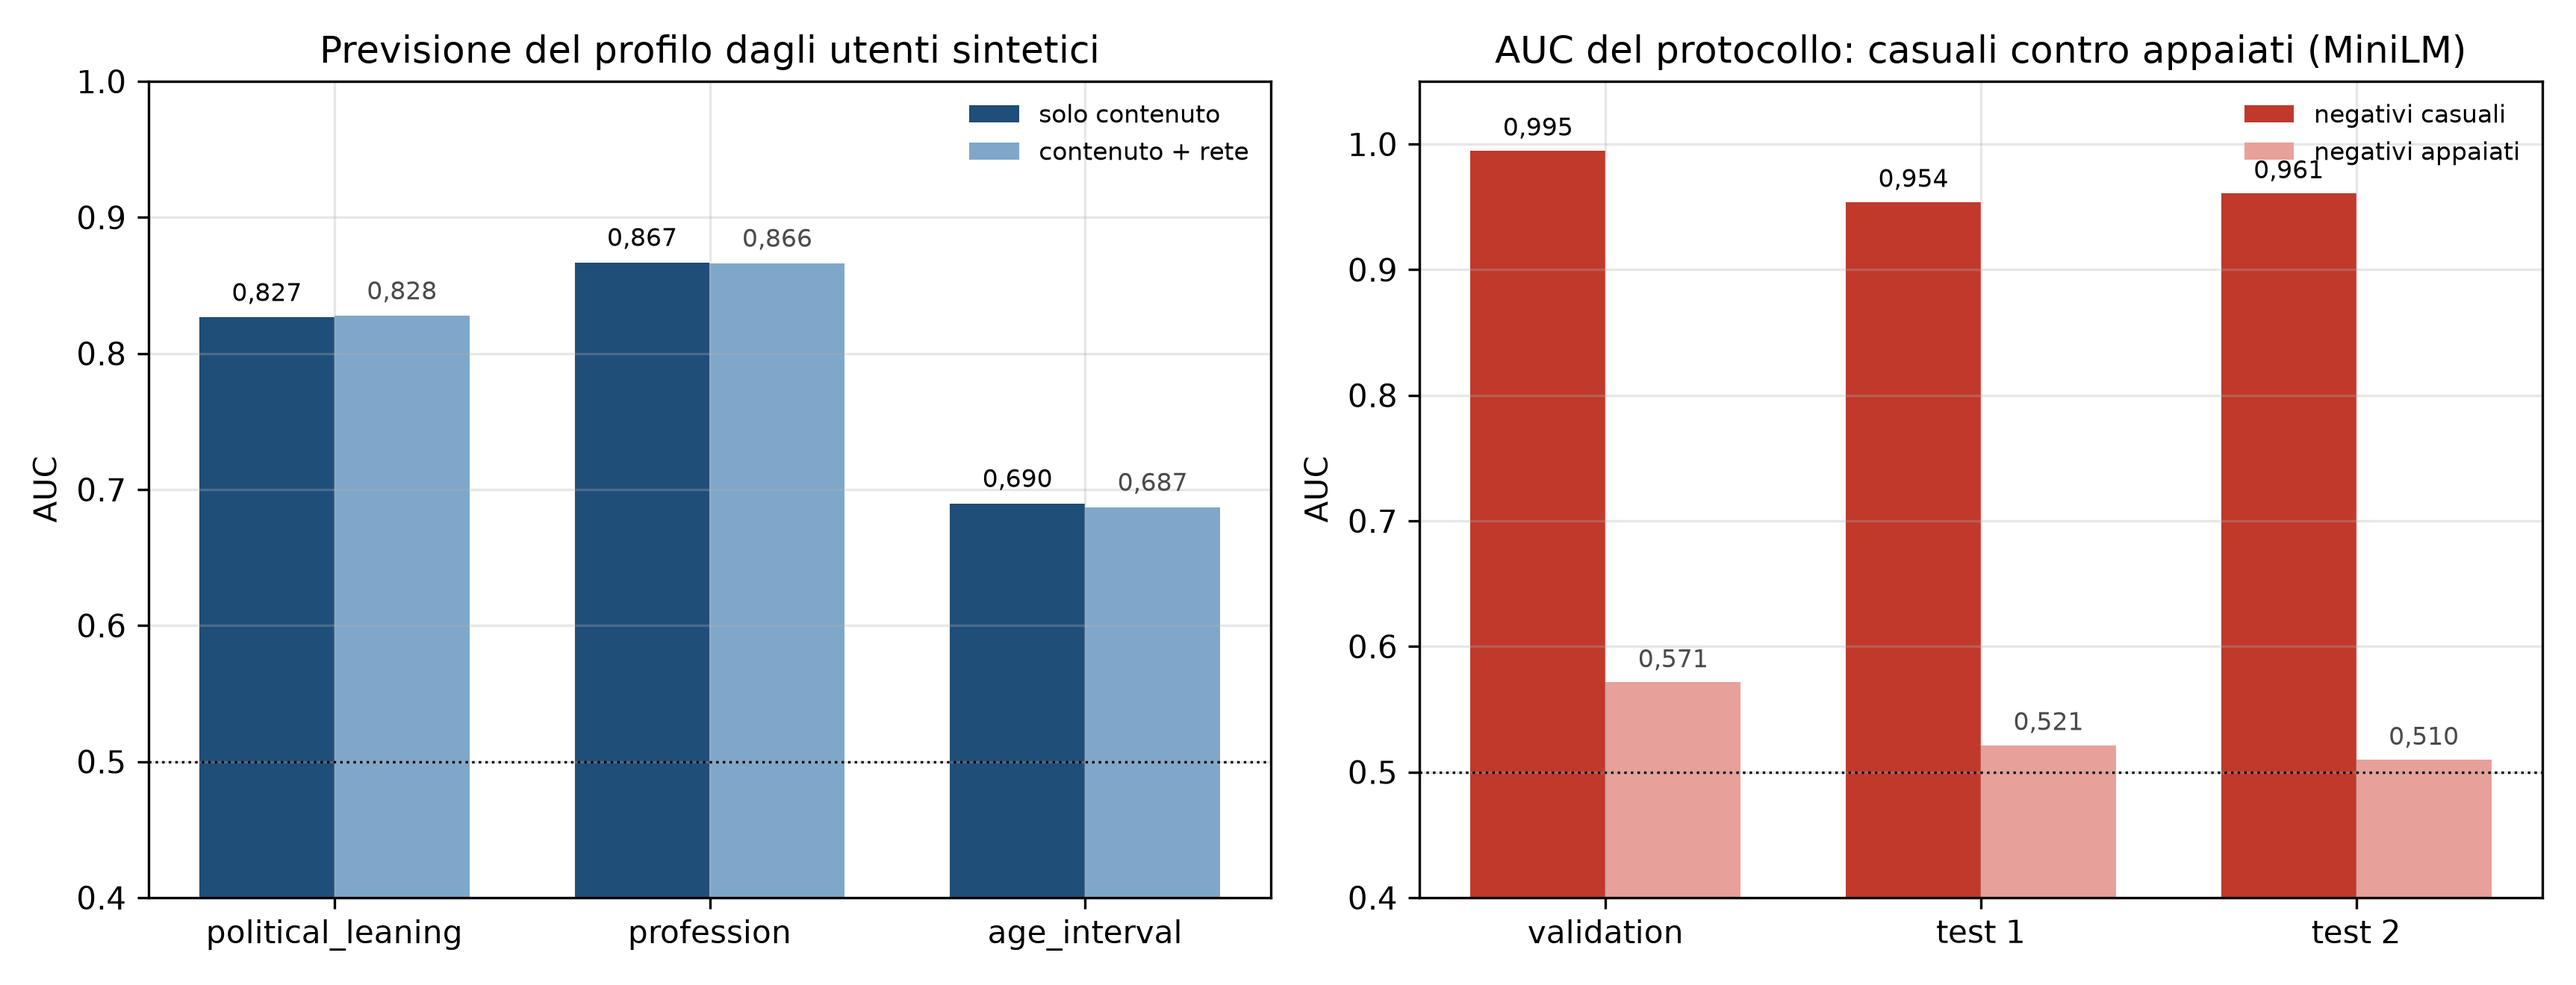
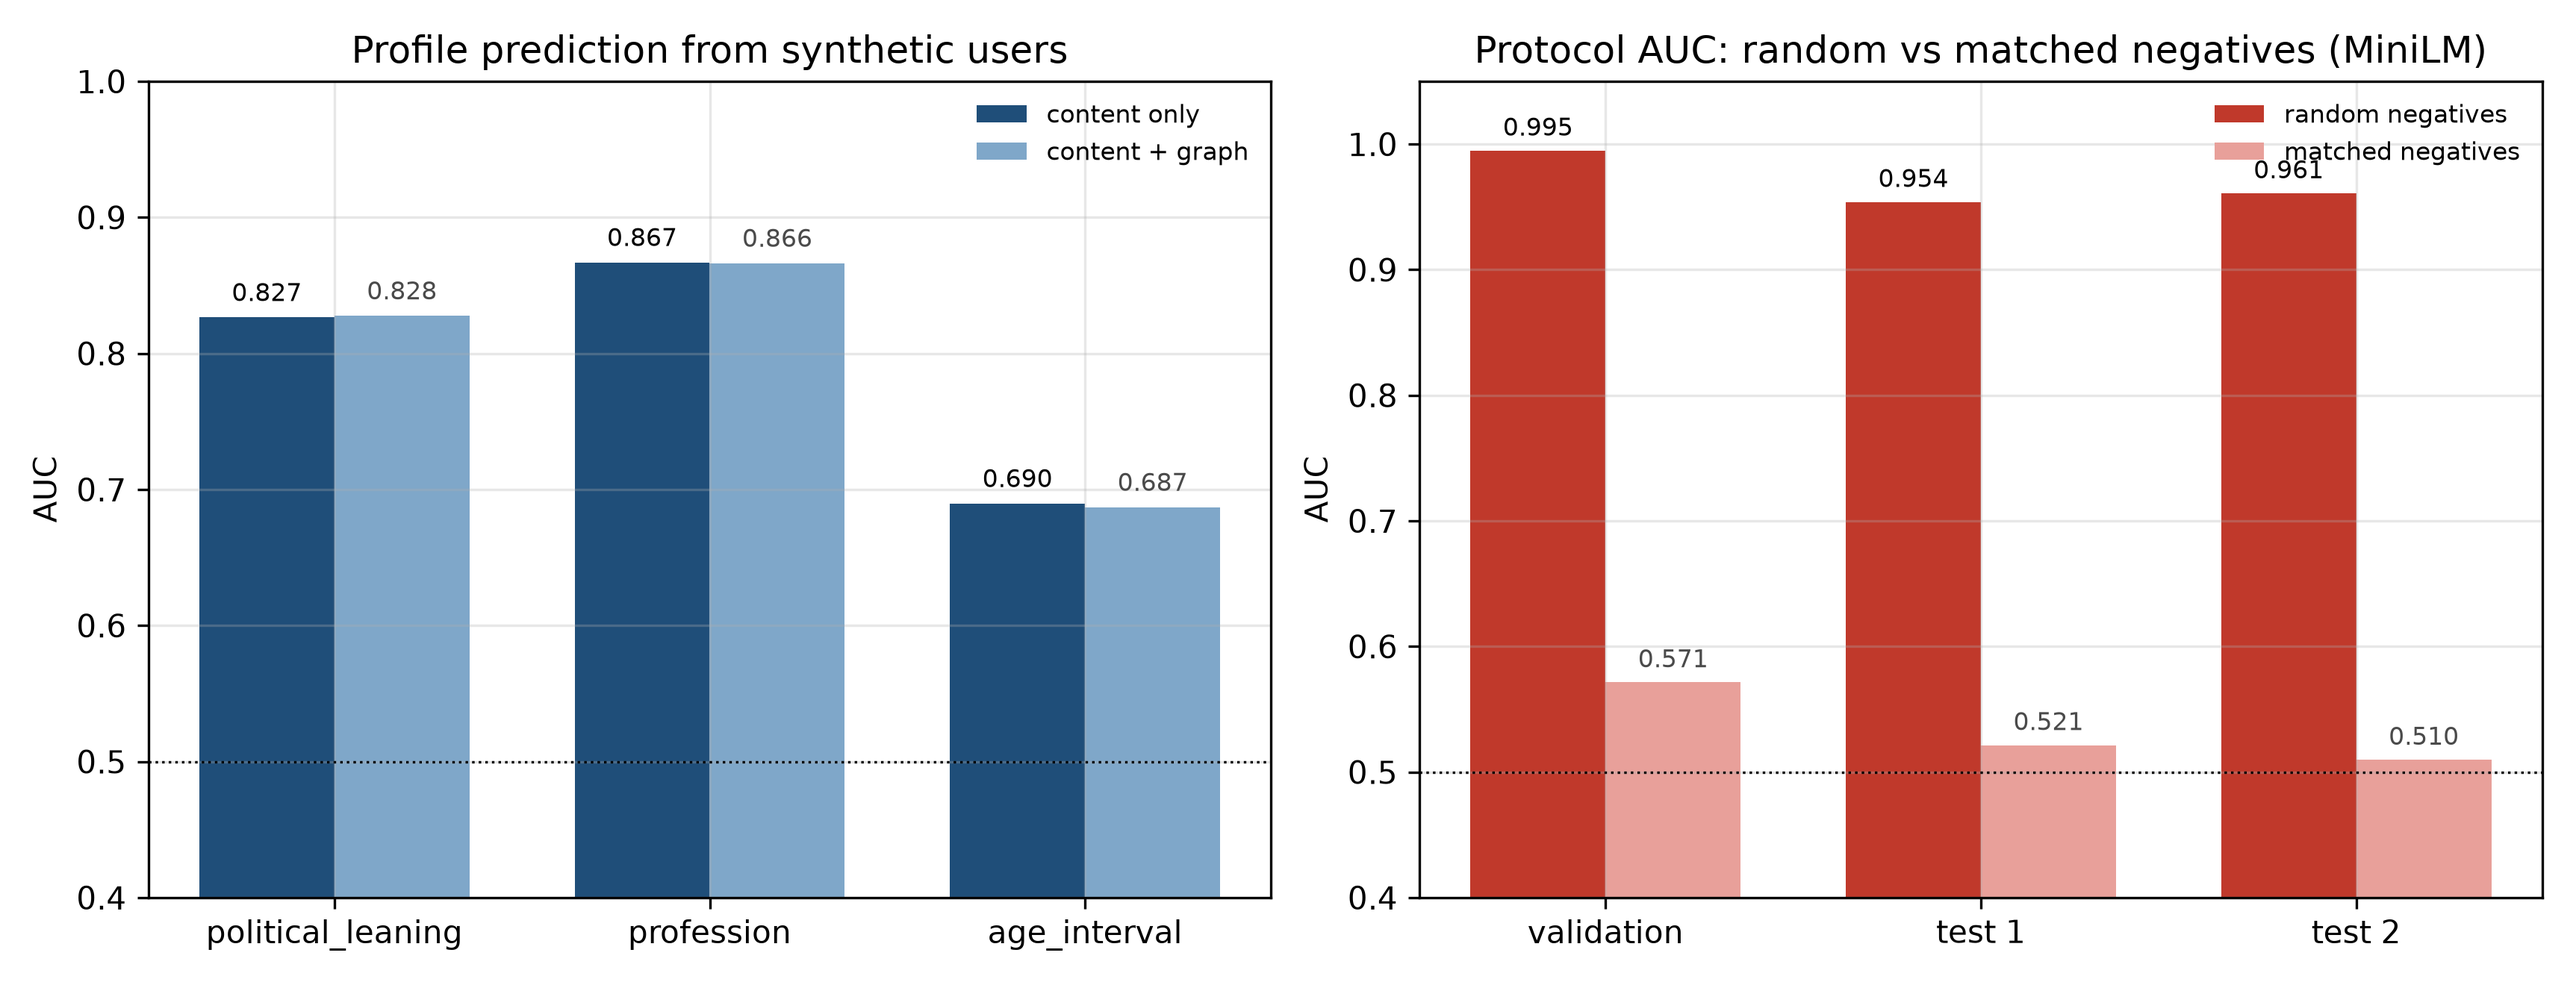
Figures and tables in English; no version names in the message

diff --git a/docs/messaggio.md b/docs/messaggio.md
@@ -2,44 +2,48 @@ Ciao Francesco,
 
 scusa il ritardo, tra il rinvio della seduta di laurea e la tesi sono stato preso al 100%. Ti riassumo dove siamo, in breve.
 
-La pipeline ufficiale è la V9, il modello per eventi di arrivo. Tutti i numeri di questo messaggio sono della V9: le versioni precedenti le cito solo tra le cose che non hanno funzionato.
+La pipeline è quella finale, il modello per eventi di arrivo. Tutti i numeri di questo messaggio sono di quella; le strade provate prima le cito solo tra le cose che non hanno funzionato.
 
-Contenuto. Tolto node2vec, le rappresentazioni iniziali dei nodi vengono solo dal testo. Ho confrontato sei encoder sul reale e il migliore è all-MiniLM-L6-v2. Ogni post è codificato da solo e poi i vettori sono mediati per utente: questa scelta porta l'AUC del protocollo da 0,534 a 0,549. Il modello temporale è tNodeEmbed con queste rappresentazioni, Procrustes a catena, LSTM e testa di coppia [h_u, h_v, h_u*h_v].
+Contenuto. Tolto node2vec, le rappresentazioni iniziali dei nodi vengono solo dal testo. Ho confrontato sei encoder sul reale e il migliore è all-MiniLM-L6-v2. Ogni post è codificato da solo e poi i vettori sono mediati per utente: così l'AUC del protocollo passa da 0,534 a 0,549. Il modello temporale è tNodeEmbed con queste rappresentazioni, Procrustes a catena, LSTM e testa di coppia [h_u, h_v, h_u*h_v].
 
-[allega: confronto_encoder.png]
+[allega: encoder_comparison.png]
 
 Valutazione. Nel reale ogni arco nuovo coinvolge almeno un utente che entra, quindi valuto sull'intera transizione e con due tipi di negativi: casuali e appaiati (stesso mittente, arrivo e grado simili). Con i casuali l'AUC è 0,99 in validation e 0,95-0,96 nei due test; con gli appaiati scende a circa 0,5. Uso gli appaiati, che sono la prova più dura.
 
 Generazione. Nessuna soglia e nessuna regola: fitto sul reale e genero passo per passo campionando. L'unità non è la coppia ma l'evento di arrivo, cioè l'utente che entra. Nel reale un arrivo porta da 35 a 111 archi (massimo 1.202) e il 40% è ricambiato subito: l'hub nasce lì. Ho diviso il sintetico in 9 passi seguendo la curva di arrivo e la forma dell'attività del reale. Ho provato anche "tutti presenti dal primo passo": le due reti sono quasi equivalenti (distanza dal reale 3,79 contro 4,39), quindi uso la prima e tengo la seconda come controllo.
 
-[allega: tabella_reale_vs_sintetica.png]
+[allega: real_vs_synthetic_table.png]
 
-| Metrica (ultimo snapshot) | Reale | V9 |
+| Metric (last snapshot) | Real | Synthetic |
 |---|---|---|
-| Archi | 824.045 | 280.298 |
-| Grado uscente medio | 32,05 | 28,30 |
-| Grado uscente massimo | 1.290 | 324 |
-| Reciprocità | 0,418 | 0,304 |
-| Transitività | 0,034 | 0,0209 |
-| Diametro | 6 | 6 |
+| Edges | 824,045 | 280,298 |
+| Mean out-degree | 32.05 | 28.30 |
+| Maximum out-degree | 1,290 | 324 |
+| Reciprocity | 0.418 | 0.304 |
+| Transitivity | 0.034 | 0.0209 |
+| Diameter | 6 | 6 |
 
-Il grado massimo della V9 è il 95% di quello che la legge di scala del reale prevede a 10.000 utenti (340). A pari dimensione restano due differenze: la coda è più ripida nella V9 (-3,33 contro -2,35 nel decile superiore) e la coesione è più bassa. Sono i due punti aperti.
+Il grado massimo della rete finale è il 95% di quello che la legge di scala del reale prevede a 10.000 utenti (340). A pari dimensione restano due differenze: la coda è più ripida (-3.33 contro -2.35 nel decile superiore) e la coesione è più bassa. Sono i due punti aperti.
 
-[allega: legge_di_scala.png]
+[allega: scaling_law.png]
+
+[allega: out_degree_distribution.png]
 
 Contenuto e legami. Tre reti generate con testo vero, testi scambiati fra utenti e nessun testo hanno proprietà relazionali indistinguibili: il testo non sposta la rete.
 
-[allega: controllo_contenuto.png]
+[allega: content_control.png]
 
 L'omofilia 2,13 del reale è in gran parte struttura: contro non-archi appaiati per grado scende a 1,51, e a 1,29 con grado uguale entro il 10%.
 
-[allega: omofilia_controlli.png]
+[allega: homophily_controls.png]
 
 Il testo però riconosce l'utente: sugli utenti sintetici, dal solo contenuto predico profession (AUC 0,867), political_leaning (0,827) e age_interval (0,690); aggiungere la rete non migliora.
 
-Cosa non ha funzionato. Le versioni precedenti alla V9 sono state provate e scartate: regole a conteggio deciso a mano, statistiche calibrate sul reale, inferenza con soglia, generazione strutturale. O imponevano reciprocità e coesione, o le perdevano, e nessuna riproduce il meccanismo per cui gli archi nuovi arrivano in blocco con l'utente; su qualche singola metrica qualcuna va meglio, ma non sul meccanismo. Poi:
+[allega: auc_labels_and_negatives.png]
 
-- fine-tuning dell'encoder: peggiora (0,519 contro 0,534 su MiniLM, 0,523 contro 0,530 su bge-base);
+Cosa non ha funzionato. Ho provato prima altre strade - regole a conteggio deciso a mano, statistiche calibrate sul reale, inferenza con soglia, generazione strutturale - e le ho scartate: o imponevano reciprocità e coesione, o le perdevano, e nessuna riproduce il meccanismo per cui gli archi nuovi arrivano in blocco con l'utente. Poi:
+
+- fine-tuning dell'encoder: peggiora (0,519 contro 0,534 su MiniLM, 0,523 contro 0,530 su BGE-base);
 
 [allega: finetuning_vs_base.png]
 
@@ -48,9 +52,7 @@ Cosa non ha funzionato. Le versioni precedenti alla V9 sono state provate e scar
 - negativi misti nel fit: peggiorano la rete;
 - chiusura triadica dentro l'evento: misurata in modo fine, non cambia nulla.
 
-[allega: varianti_confronto.png - facoltativa]
-
-Consegna. La V9 è in 9 file .edg, uno per passo, e anche nei 4 file nella forma dei batch che mi hai dato.
+Consegna. La rete finale è in 9 file .edg, uno per passo, e anche nei 4 file nella forma dei batch che mi hai dato.
 
 Ci sentiamo nei prossimi giorni, anche in chiamata. Se ti interessa, possiamo estendere la previsione del profilo alle altre label del sintetico.
 
